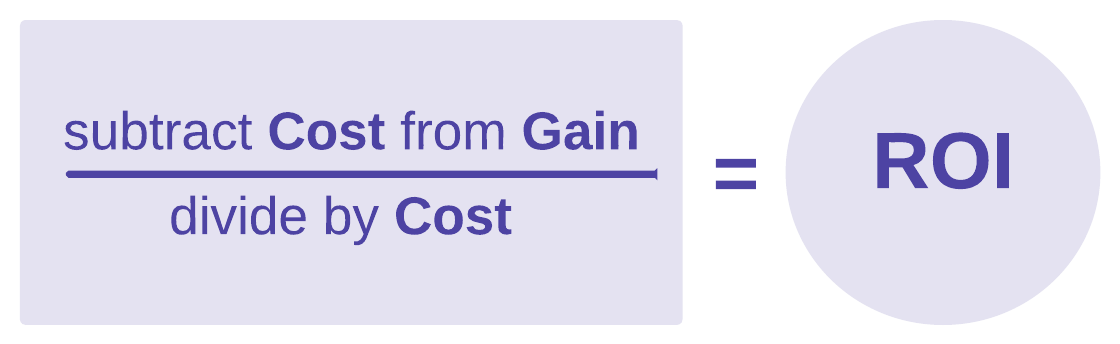
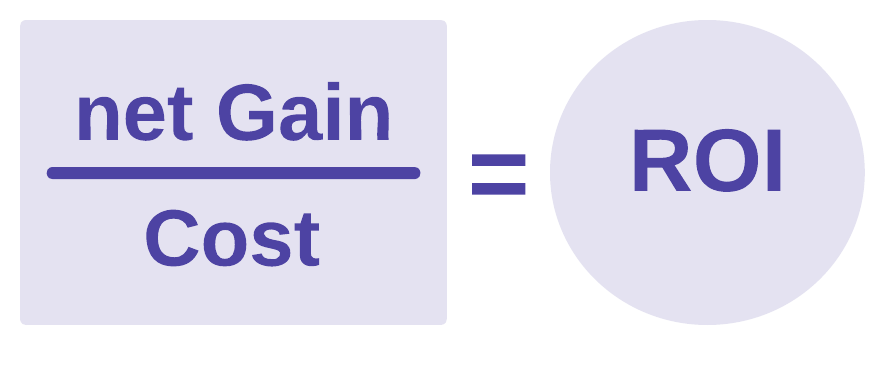
Update roi v1.0

diff --git a/app/views/sprint-0-alpha/finalpage1b.html b/app/views/sprint-0-alpha/finalpage1b.html
@@ -534,12 +534,12 @@ position: relative;">
                       </nav>
                     <div class="govuk-panel govuk-panel--confirmation" style="background-color:#fff; padding: 0;">
                        <br>
-                        <h3 class="govuk-heading-m" style="text-align:left; font-family: nobel,sans-serif; font-weight:500;">Based on  your input, your <strong >initial investment or cost will be £22K</strong> made up of <strong >£0.3K in training costs</strong> and <strong >£21,7K in apprentice wages</strong>. <br><br>Your return will be as follows:</h3> 
+                        <h3 class="govuk-heading-m" style="text-align:left; font-family: nobel,sans-serif; font-weight:500;">Based on  your input, your <strong >initial investment or cost will be £22K</strong> made up of <strong >£0.3K in training costs</strong> and <strong >£21,7K in apprentice wages</strong>. <br><br>This means:</h3> 
                        
-                        <h3 class="govuk-heading-m" style="text-align:left;font-family: nobel,sans-serif; font-weight:500;"><strong>After the 2-years apprenticeship</strong> your return will be<strong>  <BR>£33,6K or a 153% ROI.</strong> </h3> 
-                        <h3 class="govuk-heading-m" style="text-align:left;font-family: nobel,sans-serif; font-weight:500;"><strong>In the first year post-apprenticeship</strong> your return will be<strong> £38,1K or a 189% ROI.</strong> </h3> 
-                        <h3 class="govuk-heading-m" style="text-align:left;font-family: nobel,sans-serif; font-weight:500;"><strong>In the second year post-apprenticeship </strong> your return will be<strong> £39,3K or a 195% ROI.</strong> </h3> 
-                        <h3 class="govuk-heading-m" style="text-align:left;font-family: nobel,sans-serif; font-weight:500;"><strong>In the third year post-apprenticeship </strong> your return will be<strong> £40,8K or a 202% ROI.</strong> </h3> 
+                        <h3 class="govuk-heading-m" style="text-align:left;font-family: nobel,sans-serif; font-weight:500;"><strong>After the 2-years apprenticeship</strong> your return will be <strong> <br>153% or a net gain of £40,9K.</strong> </h3> 
+                        <h3 class="govuk-heading-m" style="text-align:left;font-family: nobel,sans-serif; font-weight:500;"><strong>In the first year post-apprenticeship</strong> your return will be<strong> 189% or a net gain of £79,6K.</strong> </h3> 
+                        <h3 class="govuk-heading-m" style="text-align:left;font-family: nobel,sans-serif; font-weight:500;"><strong>In the second year post-apprenticeship </strong> your return will be<strong> 195% or a net gain of 121,5K .</strong> </h3> 
+                        <h3 class="govuk-heading-m" style="text-align:left;font-family: nobel,sans-serif; font-weight:500;"><strong>In the third year post-apprenticeship </strong> your return will be<strong> 202% or a net gain of 166,7K.</strong> </h3> 
 
 
 <br>
@@ -560,7 +560,7 @@ position: relative;">
 
   
       <div class="govuk-button-group">
-        <a href="https://findapprenticeshiptraining.apprenticeships.education.gov.uk/" class="fiu-button fiu-button--employers fiu-button--outlined fiu-panel__button" target="_blank">Save as CSV<span class="fiu-vh"> (Opens in a new window)</span></a>
+        <a href="#" class="fiu-button fiu-button--employers fiu-button--outlined fiu-panel__button">Save as CSV<span class="fiu-vh"> (Opens in a new window)</span></a>
       
         <a class="govuk-link" style="color: #4282ba; font-size: 19px;
         font-family: nobel,sans-serif;
@@ -596,7 +596,7 @@ position: relative;">
         <div class="fiu-panel fiu-panel--narrow-col">
             <h2 class="govuk-heading-m fiu-panel__heading" style="color: black;"> How we calculate your ROI</h2><br>
             <div class="imgbox"> <img class="center-fit"  src='/public/images/formula.png'></div><br>
-            <p class="govuk-body-m">We take away cost from gain which gives us the cumulative net gain. <br>We then divide the cumulative net gain by cost which gives us the return on investment or ROI. </p>
+            <p class="govuk-body-m">We divide net gain by cost which gives us the return on investment or ROI. </p>
             <a href="#" id="fiu-panel-link-reg-int-emp" class="fiu-button fiu-button--employers fiu-button--outlined fiu-panel__button">Learn more</a>
         </div>
                    

diff --git a/app/views/sprint-0-alpha/finalpage1c.html b/app/views/sprint-0-alpha/finalpage1c.html
@@ -702,7 +702,7 @@ position: relative;">
 <br>
      
       <div class="govuk-button-group">
-        <a href="https://findapprenticeshiptraining.apprenticeships.education.gov.uk/" class="fiu-button fiu-button--employers fiu-button--outlined fiu-panel__button" target="_blank">Save as CSV<span class="fiu-vh"> (Opens in a new window)</span></a>
+        <a href="#" class="fiu-button fiu-button--employers fiu-button--outlined fiu-panel__button" >Save as CSV<span class="fiu-vh"> (Opens in a new window)</span></a>
       
         <a class="govuk-link" style="color: #4282ba; font-size: 19px;
         font-family: nobel,sans-serif;
@@ -738,7 +738,7 @@ position: relative;">
         <div class="fiu-panel fiu-panel--narrow-col">
           <h2 class="govuk-heading-m fiu-panel__heading" style="color: black;"> How we calculate your ROI</h2><br>
           <div class="imgbox"> <img class="center-fit"  src='/public/images/formula.png'></div><br>
-          <p class="govuk-body-m">We take away cost from gain which gives us the cumulative net gain. <br>We then divide the cumulative net gain by cost which gives us the return on investment or ROI. </p>
+          <p class="govuk-body-m">We divide net gain by cost which gives us the return on investment or ROI. </p>
           <a href="#" id="fiu-panel-link-reg-int-emp" class="fiu-button fiu-button--employers fiu-button--outlined fiu-panel__button">Learn more</a>
       </div>
                    

diff --git a/app/views/sprint-0-alpha/page6.html b/app/views/sprint-0-alpha/page6.html
@@ -270,7 +270,8 @@
                                          Apprentice hourly rate
                                         </dt>
                                         <dd class="govuk-summary-list__value">
-                                            £{{ data['contact'] }}
+                                           {{ data['contact'] }}
+                            
                                         </dd>
                                         <dd class="govuk-summary-list__actions">
                                           <a class="govuk-link--no-visited-state" href="page4">
